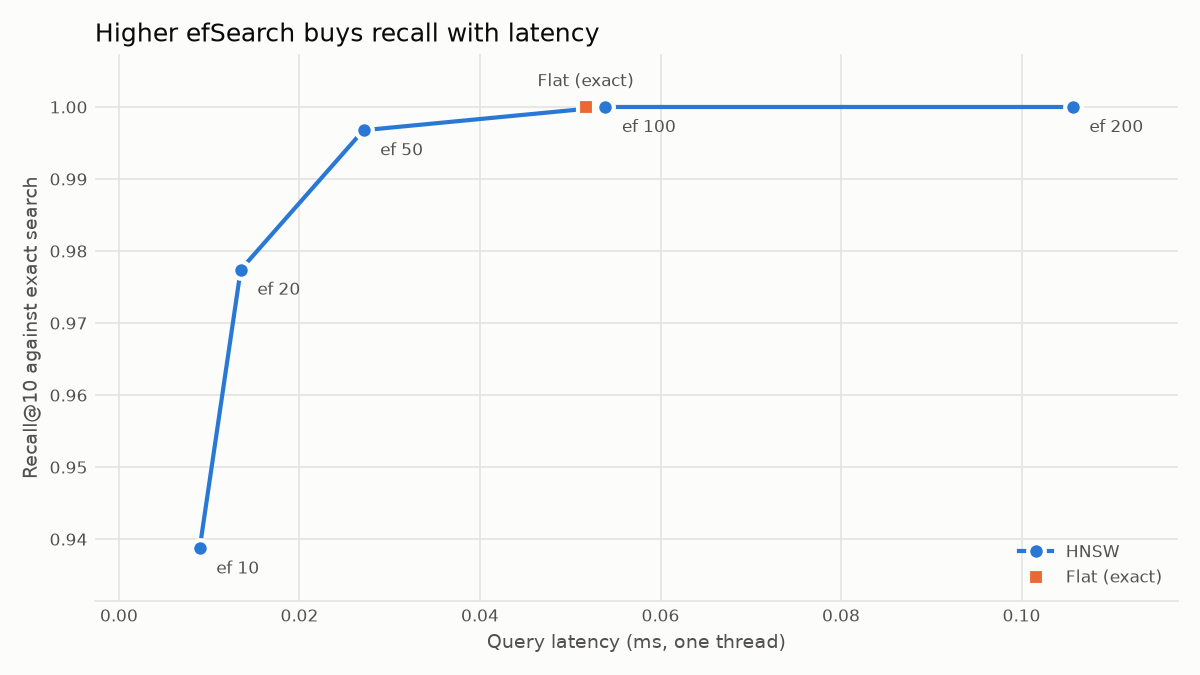
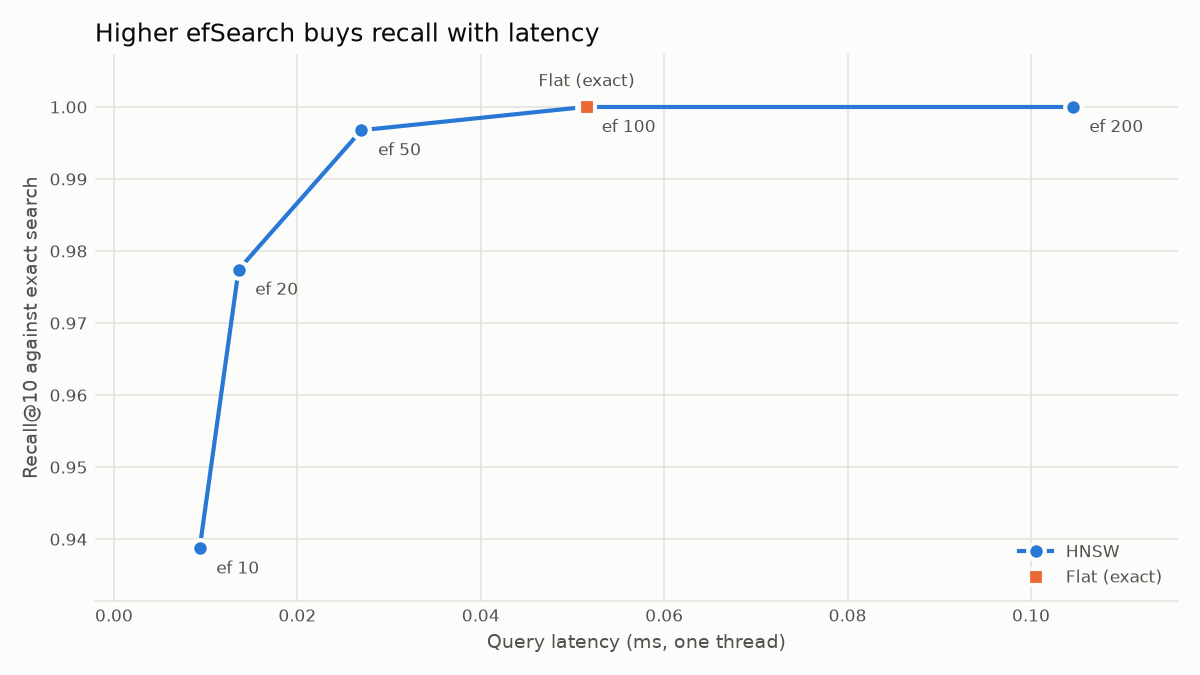
docs: document the finished v2 pipeline and its measured results

diff --git a/README.md b/README.md
@@ -1,17 +1,34 @@
 # fine-print
 
-Ask plain-English questions about the Terms of Service and privacy policies of popular apps, and get answers drawn only from the policy text, with a citation for each claim. It runs entirely on your own machine, with no API keys.
+Ask plain-English questions about the Terms of Service and privacy policies of popular apps, and get answers drawn only from the policy text, with a citation for each claim. It runs entirely on your own machine, with no API keys and no cost.
 
-> **Status:** v2 is being rebuilt. Downloading and chunking documents work today; `make index`, `eval`, `bench`, `api` and `app` depend on stages that are still being built.
+It's built from the individual parts, without LangChain or LlamaIndex, so every step is visible: parsing, chunking, embedding, vector search and prompting. It also measures itself, including where it falls short.
+
+The corpus is 20 documents from 10 companies: Coursera, Discord, Lyft, Netflix, PayPal, Pinterest, Reddit, Spotify, Strava and Zoom. Answers can be wrong and aren't legal advice, so check the cited text.
 
 ## Quickstart
 
-You need [uv](https://docs.astral.sh/uv/getting-started/installation/) and `make`. uv installs the right Python version for you.
+You need [uv](https://docs.astral.sh/uv/getting-started/installation/), `make` and [Ollama](https://ollama.com/). uv installs the right Python version for you.
 
 ```bash
-make setup                 # create .venv from uv.lock
-make data                  # download the policy documents into data/raw/
-uv run fine-print ingest   # parse and chunk them, and report the counts
+ollama pull llama3.2   # the local model, about 2 GB
+make setup             # create .venv from uv.lock
+make data              # download the policy documents into data/raw/
+make index             # build the vector index; the first run downloads the embedding model
+```
+
+Then ask from the command line:
+
+```bash
+uv run fine-print ask "Can I get a refund?" --company spotify
+uv run fine-print ask "Can I get a refund?" --company spotify --retrieve-only   # skips the model
+```
+
+Or use the web UI, which talks to the API, so it needs both running in separate terminals:
+
+```bash
+make api   # http://127.0.0.1:8000, with interactive docs at /docs
+make app   # http://localhost:8501
 ```
 
 ## Commands
@@ -20,16 +37,93 @@ uv run fine-print ingest   # parse and chunk them, and report the counts
 | --- | --- |
 | `make setup` | Create or repair `.venv` from `uv.lock` |
 | `make data` | Download the policy documents |
+| `make index` | Build the vector index for both chunking strategies |
+| `make eval` | Measure retrieval quality and the refusal threshold |
+| `make bench` | Compare vector index types, and save `docs/benchmark.png` |
+| `make api` | Start the API on `127.0.0.1:8000` |
+| `make app` | Start the web UI on `localhost:8501` |
 | `make lint` | Check linting and formatting |
 | `make format` | Apply lint fixes and formatting |
 | `make typecheck` | Run the type checker |
-| `make test` | Run the tests with coverage |
-| `make index` | Build the vector index |
-| `make eval` | Measure retrieval quality |
-| `make bench` | Compare vector index types |
-| `make api` | Start the API on `127.0.0.1:8000` |
-| `make app` | Start the web UI on `localhost:8501` |
+| `make test` | Run the tests with coverage; they need no model, index or Ollama |
+
+`uv run fine-print eval --answers` also asks the model every evaluation question. Every setting can be overridden with a `FINE_PRINT_*` environment variable or a `.env` file; see [.env.example](.env.example).
 
 ## Environment
 
 `.venv` is managed by uv, so use `uv run` or `.venv/bin/...` to run things. Add dependencies with `uv add` or `uv add --dev`, not `pip`. To start again from scratch, run `rm -rf .venv && make setup`.
+
+## How it works
+
+1. **Ingest** normalizes each policy to Markdown with `#` headings.
+2. **Chunk** cuts it into passages of up to 1,000 characters, in one of two ways. `fixed` slides a window over the whole document. `section` never crosses a heading.
+3. **Embed** turns each passage into a vector with `BAAI/bge-small-en-v1.5`.
+4. **Store** keeps the vectors in a Chroma HNSW index on disk.
+5. **Retrieve** finds the closest passages to a question, optionally filtered by company and document type.
+6. **Refuse or answer.** If no passage scores at least 0.6, the answer is "Not found in the documents" and the model isn't called. Otherwise `llama3.2` answers from those passages only, and must cite each claim.
+7. **Check citations.** Only labels of passages the model was actually shown count as citations. An answer with none is flagged as unverified.
+
+Passages are third-party text, so the prompt tells the model to ignore any instructions inside them.
+
+## Results
+
+> **Read this first.** These come from 31 answerable and 15 unanswerable questions written for this project, so they're a small sample, and the 0.6 threshold was chosen on the same questions. A passage counts as relevant if it comes from the right document and contains an expected phrase. That test favours longer chunks and can't tell whether a passage truly answers the question. Measured on an Apple M1 Pro.
+
+### Retrieval (`make eval`)
+
+| Strategy | Chunks | Mean chars | Recall@1 | Recall@3 | Recall@5 | Recall@10 | MRR |
+| --- | --- | --- | --- | --- | --- | --- | --- |
+| fixed | 1367 | 989 | 0.52 | 0.71 | 0.74 | 0.81 | 0.614 |
+| section | 1581 | 792 | 0.58 | 0.65 | 0.65 | 0.68 | 0.618 |
+
+`section` is the default. It ranks slightly better at first place, but `fixed` finds more of the answers lower down, including at the top 5 passages the model actually sees. Fixed chunks are about 25% longer, which this test favours, so this doesn't settle which is better.
+
+### Refusals and answers (`fine-print eval --answers`)
+
+| Measure | Result |
+| --- | --- |
+| Answerable questions that pass the 0.6 threshold | 100% |
+| Unanswerable questions the threshold refuses | 53% |
+| Unanswerable questions refused once the model also has a say | 100% |
+| Answerable questions the model answers | 81% |
+| ...with a valid citation | 68% |
+| ...citing a passage that contains the expected text | 48% |
+
+The threshold catches off-topic questions, but not ones that name a company, such as "How many vacation days do Zoom employees get?". Those score as high as real questions, so the model has to decline them, and on this set it did.
+
+The weak number is the last one. Part of the gap is retrieval, because `section` has the expected passage in its top 5 only 65% of the time. The rest is the model: `llama3.2` wrongly refused 6 answerable questions, and it can answer from the wrong sentence of a passage. A citation also only shows that the model named a passage, not that the passage supports the claim.
+
+### Vector index (`make bench`)
+
+Run on the 1,581 `section` vectors, using the 31 answerable questions as queries, on one thread.
+
+| Index | efSearch | Recall@10 vs flat | Query latency (ms) | Build time (ms) |
+| --- | --- | --- | --- | --- |
+| Flat | - | 1.000 | 0.0515 | 3.27 |
+| HNSW | 10 | 0.939 | 0.0093 | 144.96 |
+| HNSW | 20 | 0.977 | 0.0136 | 144.96 |
+| HNSW | 50 | 0.997 | 0.0270 | 144.96 |
+| HNSW | 100 | 1.000 | 0.0514 | 144.96 |
+| HNSW | 200 | 1.000 | 0.1045 | 144.96 |
+
+![Recall against query latency for each efSearch value, with flat search reaching full recall at about the same latency as HNSW at efSearch 100](docs/benchmark.png)
+
+At this size, exact search is perfectly usable: every option is far below a millisecond, while the model takes seconds. The Chroma index uses `efSearch` 100, which here matches exact search on both recall and speed. HNSW's advantage should grow with a much larger corpus.
+
+## Limitations
+
+- **Small, local model.** `llama3.2` sometimes refuses when the answer is in front of it, and once repeated itself until the 512-token reply cap cut it off.
+- **Keyword relevance.** The evaluation can't see whether a passage really answers a question.
+- **Unverified citations.** Nothing checks that a cited passage supports the claim.
+- **Replaced services.** The source archives have no usable documents for Uber and Duolingo, and no real privacy policy for Airbnb, so Lyft, Coursera and PayPal are in the corpus instead.
+- **Older Strava text.** Strava comes from a 2024-07-15 snapshot, while the others are current to the download.
+- **Page furniture.** Strava's documents and Zoom's terms begin with site navigation text, which ingestion doesn't remove from Markdown files.
+- **Repeated text.** Reddit's terms contain two regional versions of the agreement, so results can show near-identical passages.
+
+## Privacy
+
+Everything runs locally. Chroma's telemetry is off, `make app` turns off Streamlit's, and both services listen only on localhost. The embedding model is downloaded from Hugging Face on first use; once it's cached, it loads without contacting them.
+
+## Stack
+
+Python 3.14, uv, BeautifulSoup, pypdf, sentence-transformers, Chroma, FAISS (benchmark only), Ollama, FastAPI, Streamlit, Typer, structlog, pytest, Ruff and ty.

diff --git a/CLAUDE.md b/CLAUDE.md
@@ -15,13 +15,11 @@ fine-print is a local, citation-first RAG system over the Terms of Service and p
 
 ## Status: v2 rebuild in progress
 
-The `v2-rebuild` branch replaces the v1 prototype with a fresh scaffold.
+The `v2-rebuild` branch replaces the v1 prototype, which is kept at the `v1-simple` tag.
 
-- **Done:** settings, domain models, logging, the document download, ingestion (`ingest.py`), chunking (`chunking.py`), and the CLI with a working `fine-print ingest`.
-- **Left:** embedding, the vector store, retrieval and the Ollama answer step, evaluation, the index benchmark, the Streamlit app and FastAPI service. `app/`, `docs/` and `eval/` are empty.
-- `fine-print index`, `ask`, `eval` and `bench` exit with code 1 and a "not implemented yet" message. Replace each stub in `cli.py` as its stage is built.
-- `config.py` comments and paths refer to modules and files that are still to come (`store.py`, `eval/questions.jsonl`, `eval/privacyqa_*`).
-- The v1 implementation is the reference for the remaining pieces. Read it with `git show v1-simple:src/fine_print/<module>.py`. v1's config and layout differ from v2 (its chunk sizes are in words, for example), so port ideas rather than copying files.
+- **Done:** every stage: download, ingest, chunk, index, RAG, eval, benchmark, API and UI.
+- **Not built:** the PrivacyQA evaluation. The `privacyqa_*` settings in `config.py` and the `eval/privacyqa_` pre-commit exclusion are placeholders for it.
+- **Undecided:** `default_strategy` is `section`, although `fixed` has better recall at the top 5 (see the README's results).
 
 ## Commands
 
@@ -39,13 +37,19 @@ uv run fine-print ingest                 # parse and chunk data/raw/, and report
 uv run pre-commit install                # enable the git hooks
 ```
 
-`make index`, `eval`, `bench`, `api` and `app` run the later pipeline stages.
+`make index`, `eval`, `bench`, `api` and `app` run the later stages. `make app` needs `make api` running, and answering needs Ollama. `uv run fine-print eval --answers` also measures the real model, which takes about a minute.
+
+Tests need no model, Ollama or `data/raw/`: Ollama and the API are mocked with `respx`, the embedding model is faked, and Chroma runs for real in a temporary folder. Because mocks can't show how the real model behaves, also run real questions after changing `rag.py`.
 
 CI runs `uv sync --locked`, `ruff check`, `ruff format --check`, `ty check` and the coverage test command, so update `uv.lock` along with any dependency change.
 
 ## Architecture
 
-The pipeline: policy files → `Document` (text normalized to Markdown with `#` headings) → `Chunk` (`fixed` or `section` strategy) → BGE embeddings → Chroma HNSW index → retrieval → Ollama prompt → `Answer` with `Citation`s. The stages up to `Chunk` exist.
+The pipeline: policy files → `Document` (text normalized to Markdown with `#` headings) → `Chunk` (`fixed` or `section` strategy) → BGE embeddings → Chroma HNSW index → retrieval → Ollama prompt → `Answer` with `Citation`s. The Streamlit app is a client of the FastAPI service, and doesn't import the pipeline.
+
+- **Lazy imports.** `cli.py` imports the embedding, store and benchmark modules inside its commands, because torch makes them slow to load. Don't move them to the top of the file.
+- **Tuned from `make eval`.** `min_similarity` is 0.6 because answerable questions score above 0.69 and off-topic ones below 0.55. Questions that name a company score as high as real ones, so only the model can refuse those. Re-measure if the corpus or embedding model changes.
+- **Reply cap.** `ollama_num_predict` exists because `llama3.2` can repeat itself until the read timeout. Keep it below `RESERVED_TOKENS` in `rag.py`.
 
 - **Headings.** The raw files mix ATX, setext, bold-only lines and escaped numbering (`1\. Title`). `normalize_headings` rewrites them all as `#` lines, and `chunking.py` relies only on those. Title Case detection applies to plain text and PDFs only, because in Markdown it picks up navigation links.
 - **Chunk windows.** Spans break at whitespace, so consecutive chunks share between `overlap` and `2 * overlap` characters rather than exactly `overlap`. `section` chunks hold body text only and never cross a section; `fixed` chunks can, and take the title of the section contributing the most characters.
